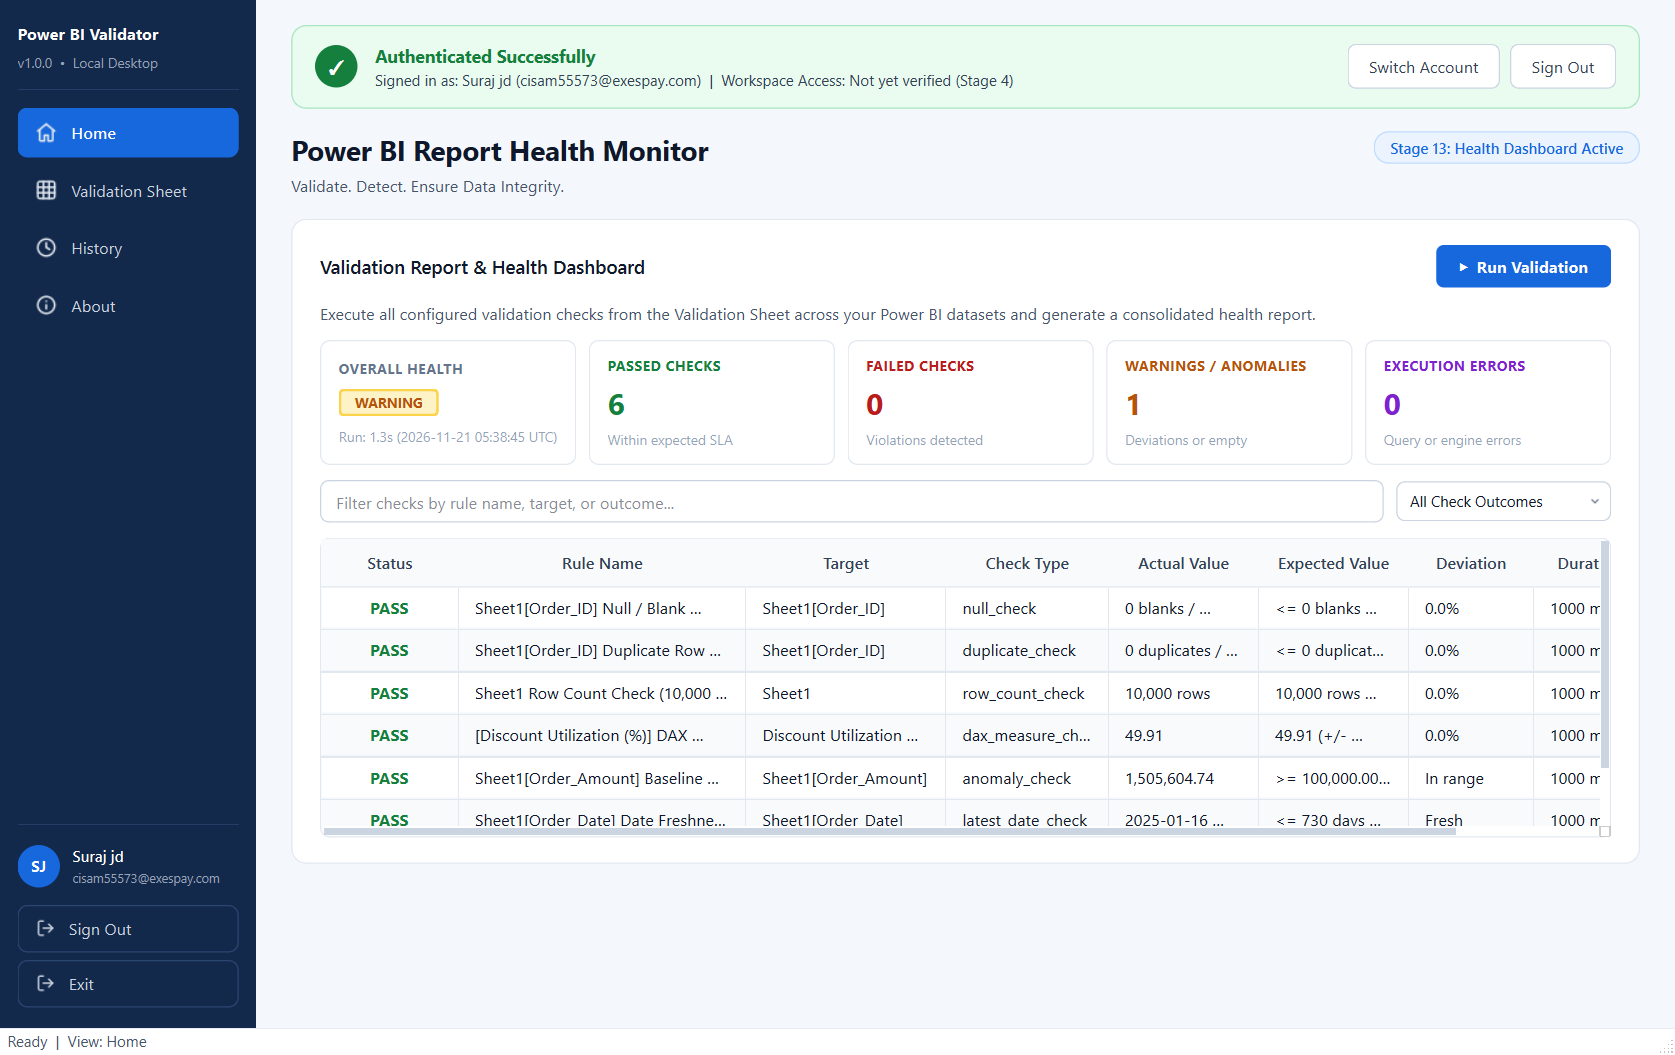
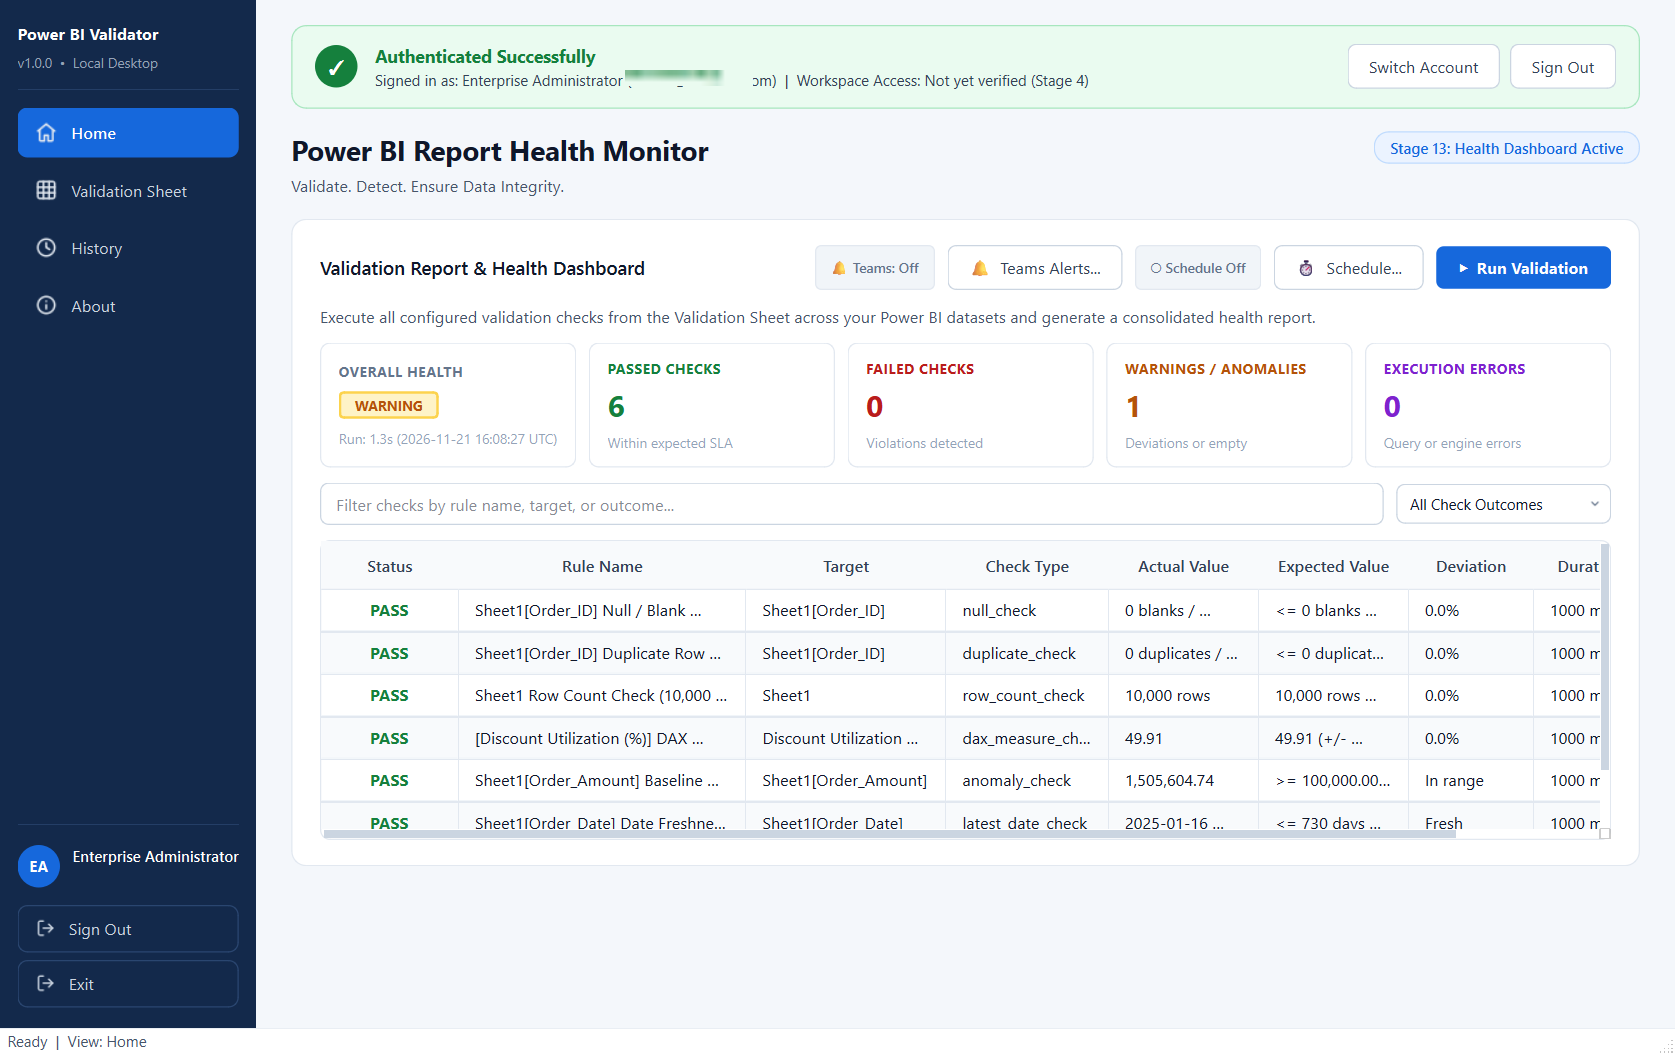
docs: blur and anonymize email address across documentation screenshots

diff --git a/scripts/capture_screenshots.py b/scripts/capture_screenshots.py
@@ -11,8 +11,9 @@ REPO_ROOT = Path(__file__).resolve().parent.parent
 if str(REPO_ROOT) not in sys.path:
     sys.path.insert(0, str(REPO_ROOT))
 
-from PySide6.QtCore import Qt
-from PySide6.QtWidgets import QApplication
+from PySide6.QtCore import QPoint, QRect, Qt
+from PySide6.QtGui import QFontMetrics, QPainter, QPixmap
+from PySide6.QtWidgets import QApplication, QWidget
 
 from app.auth.msal_auth import AuthAccount, AuthStateSnapshot, AuthStatus
 from app.bootstrap import bootstrap_application
@@ -32,6 +33,69 @@ from app.services.sheet_service import (
 )
 from app.ui.dialogs.backup_maintenance_dialog import BackupMaintenanceDialog
 from app.ui.dialogs.run_comparison_dialog import RunComparisonDialog
+
+
+def apply_email_privacy_blur(pixmap: QPixmap, window: QWidget) -> QPixmap:
+    """Apply a frosted privacy blur over the email portion in the banner and sidebar."""
+    img = pixmap.toImage()
+
+    # 1. Blur the email in details_label of auth_banner (only on Home page)
+    if getattr(window, "_current_page_key", "") == "home":
+        headline = getattr(getattr(window, "home_page", None), "auth_banner", None)
+        if headline is not None and hasattr(headline, "details_label") and headline.isVisible():
+            dl = headline.details_label
+            pos = dl.mapTo(window, QPoint(0, 0))
+            fm = QFontMetrics(dl.font())
+            text = dl.text()
+            if "(" in text and ")" in text:
+                start_idx = text.find("(")
+                end_idx = text.find(")") + 1
+                prefix_w = fm.horizontalAdvance(text[:start_idx])
+                email_w = fm.horizontalAdvance(text[start_idx:end_idx]) + 8
+                blur_rect = QRect(pos.x() + prefix_w - 2, pos.y(), email_w, max(1, dl.height()))
+
+                sub = img.copy(blur_rect)
+                if sub.width() > 0 and sub.height() > 0:
+                    small = sub.scaled(
+                        max(1, sub.width() // 8),
+                        max(1, sub.height() // 8),
+                        Qt.AspectRatioMode.IgnoreAspectRatio,
+                        Qt.TransformationMode.SmoothTransformation,
+                    )
+                    blurred = small.scaled(
+                        sub.width(),
+                        sub.height(),
+                        Qt.AspectRatioMode.IgnoreAspectRatio,
+                        Qt.TransformationMode.SmoothTransformation,
+                    )
+                    p = QPainter(img)
+                    p.drawImage(blur_rect.topLeft(), blurred)
+                    p.end()
+
+    # 2. Blur the sidebar email label
+    sidebar_email = getattr(window, "_sidebar_user_email", None)
+    if sidebar_email is not None and sidebar_email.isVisible():
+        pos = sidebar_email.mapTo(window, QPoint(0, 0))
+        blur_rect = QRect(pos.x() - 2, pos.y(), sidebar_email.width() + 4, max(1, sidebar_email.height()))
+        sub = img.copy(blur_rect)
+        if sub.width() > 0 and sub.height() > 0:
+            small = sub.scaled(
+                max(1, sub.width() // 8),
+                max(1, sub.height() // 8),
+                Qt.AspectRatioMode.IgnoreAspectRatio,
+                Qt.TransformationMode.SmoothTransformation,
+            )
+            blurred = small.scaled(
+                sub.width(),
+                sub.height(),
+                Qt.AspectRatioMode.IgnoreAspectRatio,
+                Qt.TransformationMode.SmoothTransformation,
+            )
+            p = QPainter(img)
+            p.drawImage(blur_rect.topLeft(), blurred)
+            p.end()
+
+    return QPixmap.fromImage(img)
 
 
 def main() -> None:
@@ -272,15 +336,15 @@ def main() -> None:
 
     window.resize(1340, 860)
 
-    # Set authenticated user profile matching live session
+    # Set authenticated user profile with anonymized generic enterprise identity
     window.apply_auth_state(
         AuthStateSnapshot(
             status=AuthStatus.AUTHENTICATED,
             account=AuthAccount(
-                home_account_id="suraj-jd-account",
-                display_name="Suraj jd",
-                username="cisam55573@exespay.com",
-                tenant_id="e11878ed-ea6b-4a97-9022-c835a991e474",
+                home_account_id="enterprise-admin-account",
+                display_name="Enterprise Administrator",
+                username="admin@contoso.com",
+                tenant_id="contoso-tenant-guid",
             ),
             client_id_configured=True,
         )
@@ -312,7 +376,7 @@ def main() -> None:
     # 1. Capture Dashboard / Home Page
     window.navigate_to("home")
     app.processEvents()
-    pm_home = window.grab()
+    pm_home = apply_email_privacy_blur(window.grab(), window)
     pm_home.save(str(out_dir / "01_dashboard_home.png"))
     print("[+] Saved 01_dashboard_home.png")
 
@@ -320,7 +384,7 @@ def main() -> None:
     window.navigate_to("sheet_settings")
     window.sheet_settings_page.reload_sheet()
     app.processEvents()
-    pm_sheet = window.grab()
+    pm_sheet = apply_email_privacy_blur(window.grab(), window)
     pm_sheet.save(str(out_dir / "02_validation_sheet.png"))
     print("[+] Saved 02_validation_sheet.png")
 
@@ -329,7 +393,7 @@ def main() -> None:
     window.history_page.refresh_history()
     window.history_page.runs_table.selectRow(0)
     app.processEvents()
-    pm_hist = window.grab()
+    pm_hist = apply_email_privacy_blur(window.grab(), window)
     pm_hist.save(str(out_dir / "03_history_explorer.png"))
     print("[+] Saved 03_history_explorer.png")
 
@@ -358,7 +422,7 @@ def main() -> None:
     # 6. Capture About Page (clean professional look)
     window.navigate_to("about")
     app.processEvents()
-    pm_about = window.grab()
+    pm_about = apply_email_privacy_blur(window.grab(), window)
     pm_about.save(str(out_dir / "06_about_page.png"))
     print("[+] Saved 06_about_page.png")
 

diff --git a/tests/ui/test_teams_alert_ui.py b/tests/ui/test_teams_alert_ui.py
@@ -21,8 +21,8 @@ def test_teams_dialog_initial_state_and_toggle_clicks(qtbot):
     svc = TeamsAlertService(db=None)
     account = AuthAccount(
         home_account_id="id1",
-        display_name="Suraj jd",
-        username="cisam55573@exespay.com",
+        display_name="Alex Morgan",
+        username="alex.morgan@contoso.com",
         tenant_id="tenant-1",
         is_personal_account=False,
     )
@@ -31,7 +31,7 @@ def test_teams_dialog_initial_state_and_toggle_clicks(qtbot):
     qtbot.addWidget(dlg)
     dlg.show()
 
-    assert "Connected: cisam55573@exespay.com" in dlg.lbl_account_text.text()
+    assert "Connected: alex.morgan@contoso.com" in dlg.lbl_account_text.text()
     assert dlg.chk_enabled.isChecked() is False
     assert dlg.settings_card.isEnabled() is False
 
